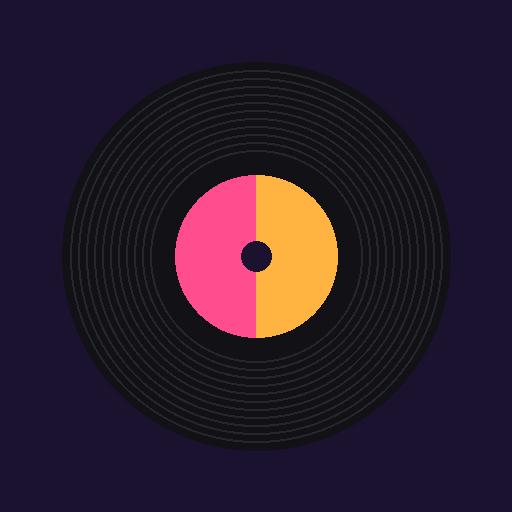
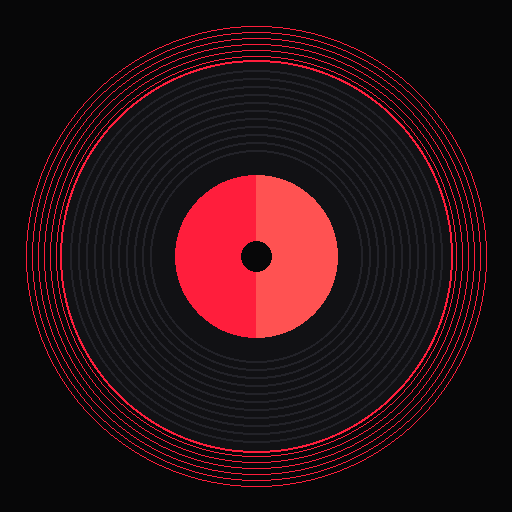
Add files via upload

diff --git a/sw.js b/sw.js
@@ -1,5 +1,5 @@
 /* CARA·B service worker */
-const CACHE = 'cara-b-v3';
+const CACHE = 'cara-b-v4';
 const SHELL = [
   './',
   './index.html',